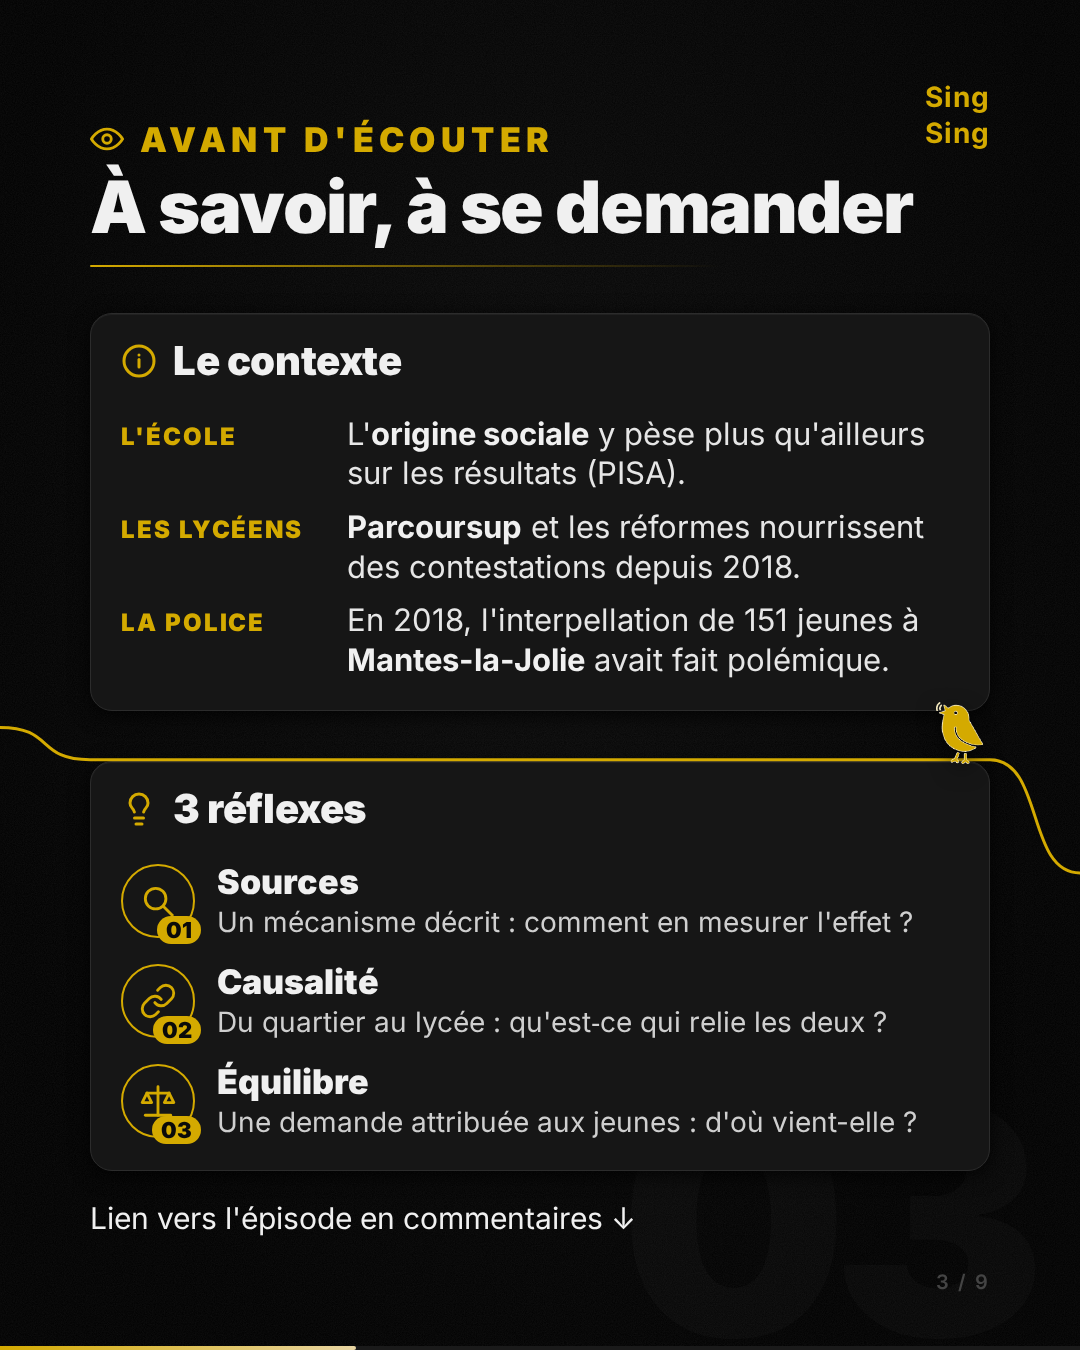
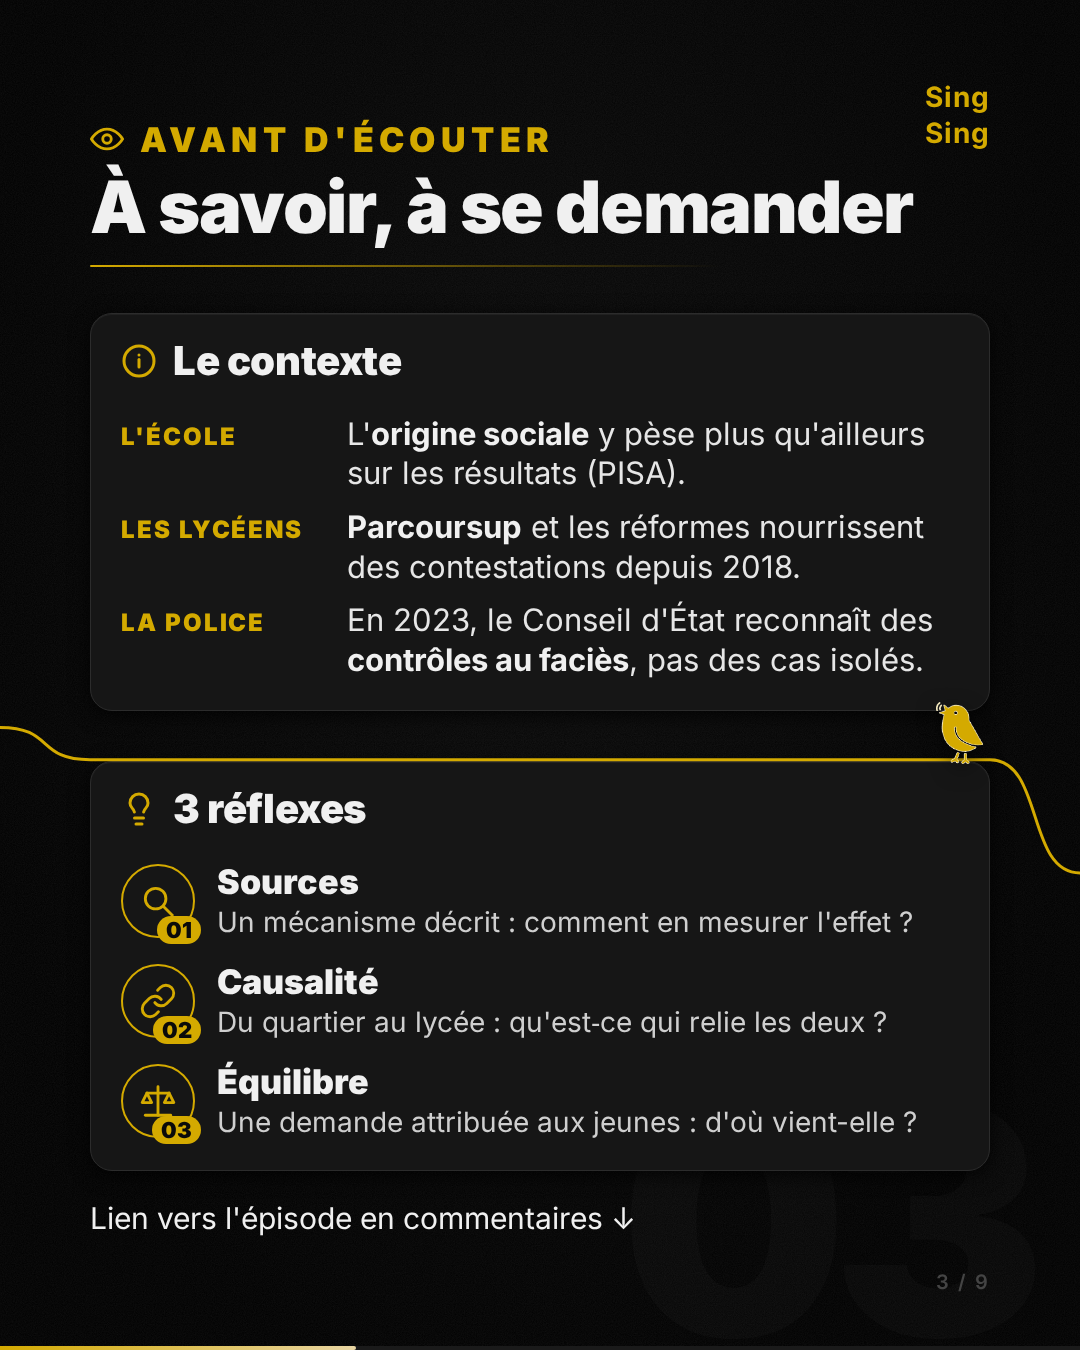
chore(samples): podcast_1 slide 3 — the police fact frames slide 5's identity checks
« En 2023, le Conseil d'État reconnaît des contrôles au faciès, pas des cas
isolés. » (decision of 11 October 2023) replaces Mantes-la-Jolie 2018: slide 5
is about checks replayed at the lycée gate, and this sets it up without
repeating its 1-vs-12 figure.

Changed region(s): [[0.3056, 0.4356, 0.8556, 0.4978]]

diff --git a/samples/podcasts/podcast_1/instagram_carousel_optimized/html/03_reperes.html b/samples/podcasts/podcast_1/instagram_carousel_optimized/html/03_reperes.html
@@ -447,7 +447,7 @@ body {
     <div class="divider"></div>
     <div class="card">
       <div class="q-head"><svg viewBox="0 0 24 24"><circle cx="12" cy="12" r="10"></circle><line x1="12" y1="11" x2="12" y2="16"></line><line x1="12" y1="8" x2="12.01" y2="8"></line></svg><span class="q-label">Le contexte</span></div>
-      <div class="facts"><div class="fact"><span class="fl">L'école</span><p class="ft">L'<strong>origine sociale</strong> y pèse plus qu'ailleurs sur les résultats (PISA).</p></div><div class="fact"><span class="fl">Les lycéens</span><p class="ft"><strong>Parcoursup</strong> et les réformes nourrissent des contestations depuis 2018.</p></div><div class="fact"><span class="fl">La police</span><p class="ft">En 2018, l'interpellation de 151 jeunes à <strong>Mantes-la-Jolie</strong> avait fait polémique.</p></div></div>
+      <div class="facts"><div class="fact"><span class="fl">L'école</span><p class="ft">L'<strong>origine sociale</strong> y pèse plus qu'ailleurs sur les résultats (PISA).</p></div><div class="fact"><span class="fl">Les lycéens</span><p class="ft"><strong>Parcoursup</strong> et les réformes nourrissent des contestations depuis 2018.</p></div><div class="fact"><span class="fl">La police</span><p class="ft">En 2023, le Conseil d'État reconnaît des <strong>contrôles au faciès</strong>, pas des cas isolés.</p></div></div>
       
       
     </div>
